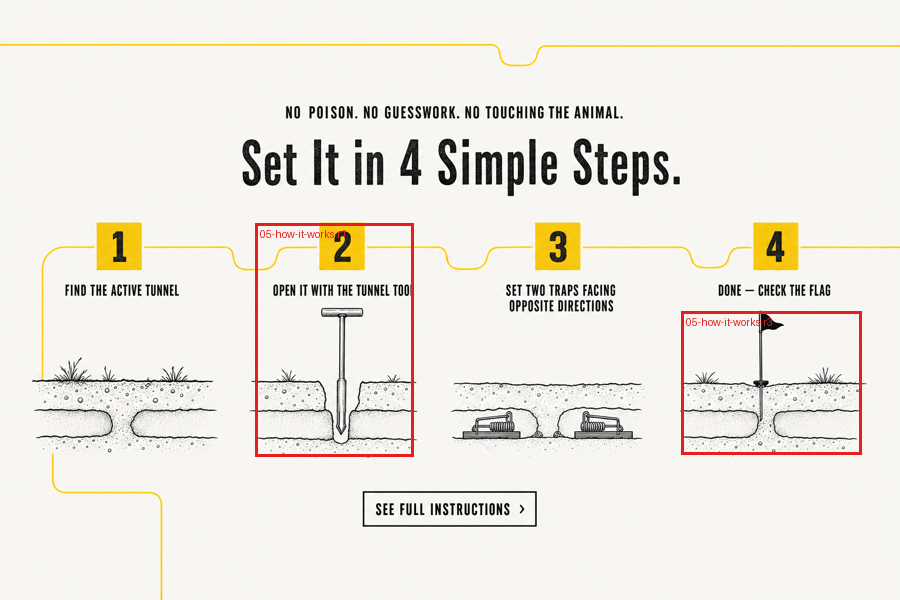
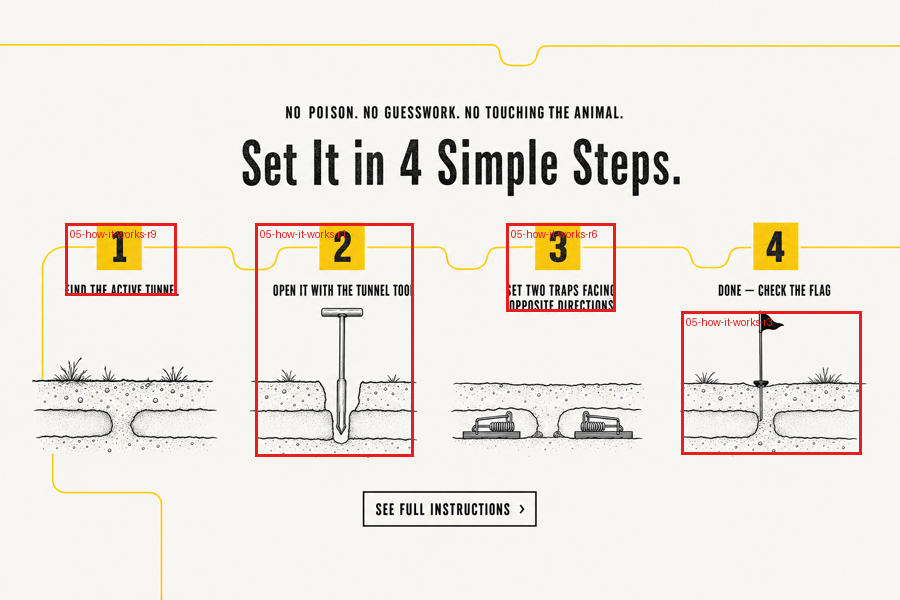
Complete 4-step illustration set: step1 mound + step3 trap placement (style-matched, full-scene)

Changed region(s): [[0.56, 0.36, 0.6844, 0.54], [0.0622, 0.36, 0.2178, 0.51]]

diff --git a/public/design-review/index.html b/public/design-review/index.html
@@ -20,7 +20,7 @@ figcaption{font-size:12px;color:#999;margin-top:4px}
 .chip.unmapped{background:#630} .chip.client-copy{background:#444}
 </style>
 <h1>Image asset review</h1>
-<p class='muted'>55 regions stay CODE (CSS/SVG — no file). 10 raster assets to review: 5 extract, 2 inpaint.</p>
+<p class='muted'>53 regions stay CODE (CSS/SVG — no file). 12 raster assets to review: 7 extract, 2 inpaint.</p>
 <div class='proto'><b>How to review:</b> judge each asset against its design reference on the left. To swap one out, replace the file directly in git — same path, push to main (<a href='https://github.com/Landing-Pages-Websites/cinch-traps/tree/main/public/images/design'>assets folder in the repo</a>; each card links to its file). Replaced files are authoritative — the pipeline never overwrites them. This page updates on every push. Complete the review subtask to approve; the build does not start until then.</div>
 <div class='card' id='01-hero-r1'>
 <b>01-hero-r1</b><span class='chip inpaint'>inpaint</span>
@@ -61,6 +61,22 @@ figcaption{font-size:12px;color:#999;margin-top:4px}
 <div class='pair'>
 <figure><a href='crops/05-how-it-works-context.png'><img src='crops/05-how-it-works-r3-ref.png' alt=''></a><figcaption>design reference — 05-how-it-works (click for full frame)</figcaption></figure>
 <figure><img src='../images/design/elements/how-step-trap-reset.png' alt=''><figcaption>shipped asset — <a href='https://github.com/Landing-Pages-Websites/cinch-traps/blob/main/public/images/design/elements/how-step-trap-reset.png'><code>elements/how-step-trap-reset.png</code></a> (replace in git)</figcaption></figure>
+</div></div>
+<div class='card' id='05-how-it-works-r6'>
+<b>05-how-it-works-r6</b><span class='chip extract'>extract</span>
+<div class='muted'>Step 3 visual: warm painterly ILLUSTRATION of a trap being placed into an open tunnel (matches ref style).</div>
+<div class='muted'>FULL-SCENE reconstruction as ILLUSTRATION (same painterly style as ref): yellow overlays removed, scene extended. Was misclassified as line-art SVG.</div>
+<div class='pair'>
+<figure><a href='crops/05-how-it-works-context.png'><img src='crops/05-how-it-works-r6-ref.png' alt=''></a><figcaption>design reference — 05-how-it-works (click for full frame)</figcaption></figure>
+<figure><img src='../images/design/elements/how-step3-trap.png' alt=''><figcaption>shipped asset — <a href='https://github.com/Landing-Pages-Websites/cinch-traps/blob/main/public/images/design/elements/how-step3-trap.png'><code>elements/how-step3-trap.png</code></a> (replace in git)</figcaption></figure>
+</div></div>
+<div class='card' id='05-how-it-works-r9'>
+<b>05-how-it-works-r9</b><span class='chip extract'>extract</span>
+<div class='muted'>Step 1 visual: warm painterly ILLUSTRATION of a molehill mound in grass (matches ref style).</div>
+<div class='muted'>FULL-SCENE reconstruction as ILLUSTRATION (same painterly style as ref): yellow overlays removed (SVG layer), scene extended. Was misclassified as line-art SVG — the ref shows painterly illustration.</div>
+<div class='pair'>
+<figure><a href='crops/05-how-it-works-context.png'><img src='crops/05-how-it-works-r9-ref.png' alt=''></a><figcaption>design reference — 05-how-it-works (click for full frame)</figcaption></figure>
+<figure><img src='../images/design/elements/how-step1-mound.png' alt=''><figcaption>shipped asset — <a href='https://github.com/Landing-Pages-Websites/cinch-traps/blob/main/public/images/design/elements/how-step1-mound.png'><code>elements/how-step1-mound.png</code></a> (replace in git)</figcaption></figure>
 </div></div>
 <div class='card' id='06-heritage-r1'>
 <b>06-heritage-r1</b><span class='chip extract'>extract</span>
@@ -167,4 +183,5 @@ No full-bleed background image was extracted because the page background is a si
 - how-step1-trap + how-step-trap-trigger reclassified CODE — vector-style line art, build as inline SVG.
 - how-step-trap-set: the numbered square is NOT in the asset — number squares are an SVG/HTML layer on all step tiles.
 - 05-how-it-works step imagery is ILLUSTRATION (warm painterly, per reviewer): how-step-trap-set.png + how-step-trap-reset.png regenerated in the ref&#x27;s illustration style. Medium must match the comp — never substitute photos where the design shows illustration.
+- CORRECTION: ALL FOUR how-it-works step visuals are painterly ILLUSTRATIONS (how-step1-mound, how-step-trap-set, how-step3-trap, how-step-trap-reset) — the earlier line-art/SVG call on steps 1+3 was wrong. Only the number squares, dashed connector lines, captions, and CTA are code.
 </pre></details>

diff --git a/public/images/design/NOTES.md b/public/images/design/NOTES.md
@@ -63,3 +63,4 @@ No full-bleed background image was extracted because the page background is a si
 - how-step1-trap + how-step-trap-trigger reclassified CODE — vector-style line art, build as inline SVG.
 - how-step-trap-set: the numbered square is NOT in the asset — number squares are an SVG/HTML layer on all step tiles.
 - 05-how-it-works step imagery is ILLUSTRATION (warm painterly, per reviewer): how-step-trap-set.png + how-step-trap-reset.png regenerated in the ref's illustration style. Medium must match the comp — never substitute photos where the design shows illustration.
+- CORRECTION: ALL FOUR how-it-works step visuals are painterly ILLUSTRATIONS (how-step1-mound, how-step-trap-set, how-step3-trap, how-step-trap-reset) — the earlier line-art/SVG call on steps 1+3 was wrong. Only the number squares, dashed connector lines, captions, and CTA are code.